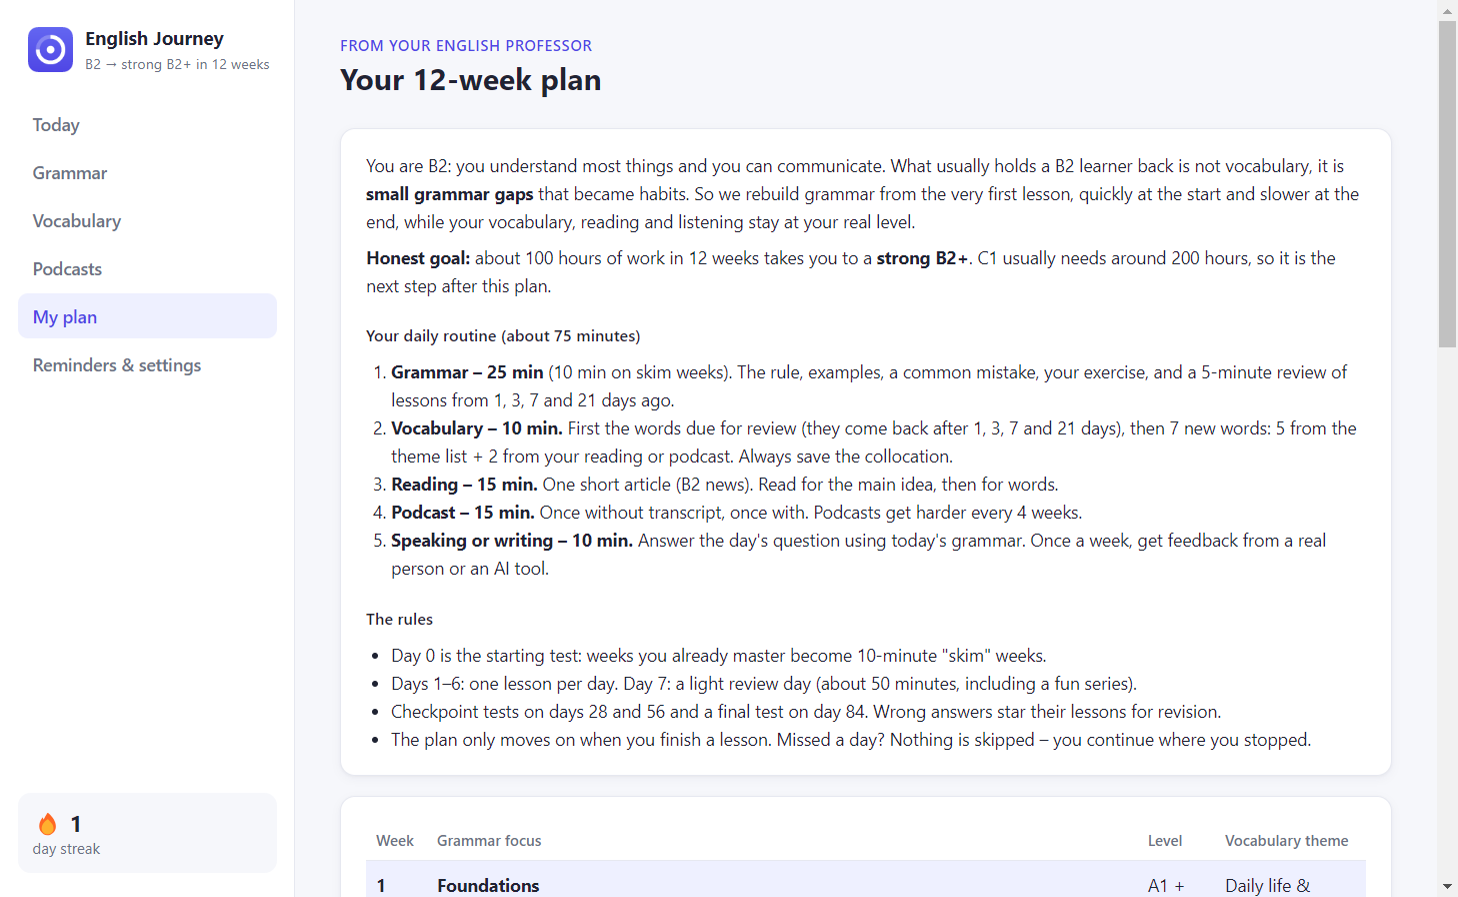
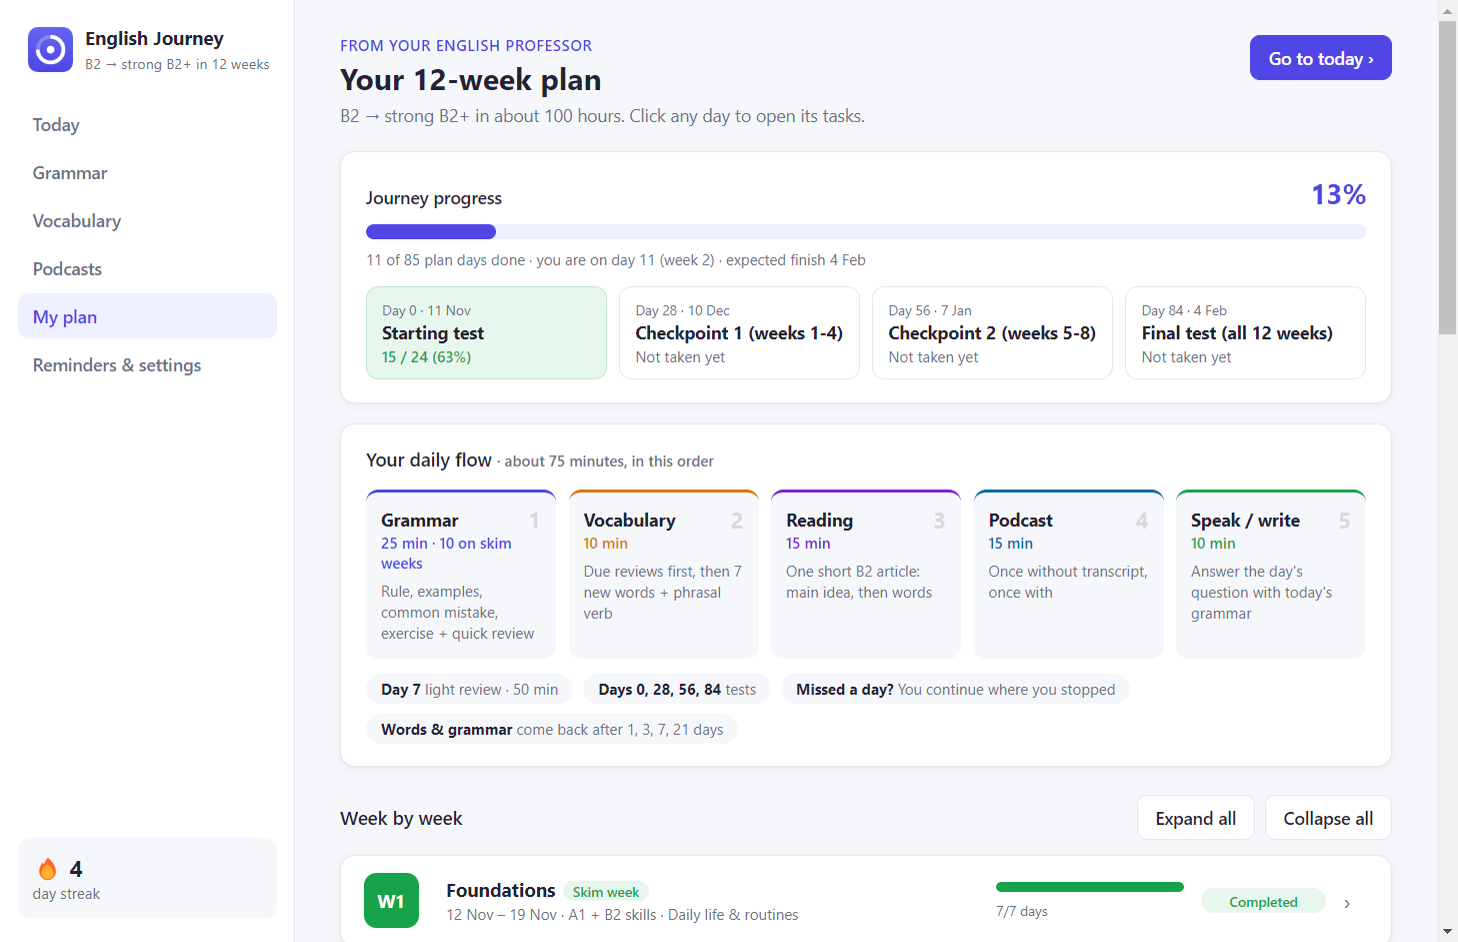
feat: week-by-week plan page linked to Today
My plan now shows journey progress, the 4 test milestones, the
daily flow, and an expandable card per week with its 7 days, status
and minutes. Clicking a day opens it on Today; Today gets a
'This week' strip that links back to the plan.

diff --git a/src/app.js b/src/app.js
@@ -196,6 +196,7 @@ function renderToday() {
     dots += `<div class="dot"><i><b class="${pct === 100 ? 'full' : ''}" style="height:${pct}%"></b></i>${parse(d).toLocaleDateString('en-GB', { weekday: 'short' })}</div>`;
   }
   $('weekDots').innerHTML = dots;
+  renderWeekStrip();
   $('tipText').textContent = TIPS[Math.abs(info.n) % TIPS.length];
 }
 
@@ -597,15 +598,147 @@ $('podHistory').addEventListener('click', (e) => {
   save(); renderPodcasts();
 });
 
-// ---------- PLAN ----------
-function renderPlan() {
-  const todayP = planPos(todayIso());
-  const cur = todayP >= 1 ? Math.floor((Math.min(todayP, TOTAL_DAYS) - 1) / 7) : -1;
-  $('planRows').innerHTML = PLAN.map((w, i) => `
-    <tr class="${i === cur ? 'current' : ''}"><td><strong>${i + 1}</strong><br><span class="muted small">${short(dateOfPos(i * 7 + 1))}</span></td>
-    <td><strong>${esc(w.title)}</strong><br><span class="muted small">${w.lessons.map(esc).join(' · ')}</span></td>
-    <td>${esc(w.level)}</td><td>${esc(w.theme)}</td></tr>`).join('');
+// ---------- PLAN (week by week, linked to Today) ----------
+const openWeeks = new Set();
+let planOpened = false;
+
+function posStatus(pos) {
+  const t = planPos(todayIso());
+  if (pos in schedule().doneAt) return 'done';
+  if (pos === t) return 'today';
+  return 'upcoming';
 }
+
+// Week index (0-11) the learner is in now; the starting test counts as week 1.
+function currentWeek() {
+  const t = planPos(todayIso());
+  return t < 1 ? 0 : Math.floor((Math.min(t, TOTAL_DAYS) - 1) / 7);
+}
+
+const KIND_TAG = { lesson: ['Grammar', 'Lesson'], review: ['Fun', 'Review'], test: ['Test', 'Test'] };
+const dayLabel = (d) => parse(d).toLocaleDateString('en-GB', { weekday: 'short', day: 'numeric', month: 'short' });
+
+function openPlanDay(pos) {
+  viewDate = dateOfPos(pos);
+  showView('today');
+}
+
+function dayRow(pos) {
+  const d = decorate(tasksForDay(pos));
+  const st = posStatus(pos);
+  const [cls, label] = KIND_TAG[d.kind];
+  const lvl = d.kind === 'lesson' ? weekLevel(d.weekIdx) : '';
+  const badge = lvl ? `<span class="badge ${lvl}">${lvl === 'skim' ? 'Skim' : 'Focus'}</span>` : '';
+  const testRes = d.kind === 'test' && state.tests[d.testId] ? `<span class="muted small"> · ${state.tests[d.testId].score}/${state.tests[d.testId].total}</span>` : '';
+  const mins = d.tasks.reduce((a, t) => a + t.min, 0);
+  return `<li class="pw-day ${st}" data-pos="${pos}" title="Open day ${pos} on the Today page">
+    <span class="pw-dot">${st === 'done' ? '✓' : ''}</span>
+    <span class="pw-dn"><strong>Day ${pos}</strong><small>${dayLabel(dateOfPos(pos))}</small></span>
+    <span class="tag ${cls}">${label}</span>
+    <span class="pw-lesson">${esc(d.title)}${badge}${testRes}</span>
+    <span class="pw-min">${mins} min</span>
+    <span class="pw-open">${st === 'today' ? 'Today ›' : 'Open ›'}</span>
+  </li>`;
+}
+
+function renderPlan() {
+  const s = schedule();
+  const todayP = Math.max(planPos(todayIso()), 0);
+  const cur = currentWeek();
+  if (!planOpened) { openWeeks.add(cur); planOpened = true; }
+
+  // overview
+  const doneCount = Object.keys(s.doneAt).filter((p) => Number(p) <= TOTAL_DAYS).length;
+  const pct = Math.round((doneCount / (TOTAL_DAYS + 1)) * 100);
+  $('planPct').textContent = `${pct}%`;
+  $('planFill').style.width = `${pct}%`;
+  $('planText').textContent = `${doneCount} of ${TOTAL_DAYS + 1} plan days done · you are on day ${Math.min(todayP, TOTAL_DAYS)} (week ${cur + 1}) · expected finish ${short(dateOfPos(TOTAL_DAYS))}`;
+  const MS = [[0, 'diag'], [28, 'cp1'], [56, 'cp2'], [84, 'final']];
+  $('planMilestones').innerHTML = MS.map(([pos, id]) => {
+    const r = state.tests[id];
+    const st = posStatus(pos);
+    return `<button class="milestone ${st}" data-pos="${pos}">
+      <span class="ms-day">Day ${pos} · ${short(dateOfPos(pos))}</span>
+      <strong>${esc(TESTS[id].name)}</strong>
+      <span class="ms-res">${r ? `${r.score} / ${r.total} (${Math.round((r.score / r.total) * 100)}%)` : st === 'today' ? 'Today' : 'Not taken yet'}</span>
+    </button>`;
+  }).join('');
+
+  // weeks
+  $('planWeeks').innerHTML = PLAN.map((w, wi) => {
+    const positions = Array.from({ length: 7 }, (_, i) => wi * 7 + i + 1);
+    const done = positions.filter((p) => p in s.doneAt).length;
+    const status = done === 7 ? 'completed' : wi === cur ? 'current' : done ? 'current' : 'upcoming';
+    const statusLabel = { completed: 'Completed', current: 'In progress', upcoming: 'Upcoming' }[status];
+    const lvl = weekLevel(wi);
+    const badge = lvl ? `<span class="badge ${lvl}">${lvl === 'skim' ? 'Skim week' : 'Focus week'}</span>` : '';
+    const first = dateOfPos(positions[0]);
+    const last = dateOfPos(positions[6]);
+    const pv = PHRASAL[wi].map((x) => x[0]).join(', ');
+    const pods = [...new Set(PODCAST_BY_PHASE[Math.min(2, Math.floor(wi / 4))].map((i) => PODCASTS[i].name))].join(', ');
+    const open = openWeeks.has(wi);
+    return `<div class="card plan-week ${status} ${open ? 'open' : ''}">
+      <button class="pw-head" data-week="${wi}" aria-expanded="${open}">
+        <span class="pw-num">W${wi + 1}</span>
+        <span class="pw-title"><strong>${esc(w.title)}</strong>${badge}<small>${short(first)} – ${short(last)} · ${esc(w.level)} · ${esc(w.theme)}</small></span>
+        <span class="pw-progress"><span class="bar thin"><span class="bar-fill ${done === 7 ? 'full' : ''}" style="width:${(done / 7) * 100}%"></span></span><small>${done}/7 days</small></span>
+        <span class="pill ${status}">${statusLabel}</span>
+        <span class="chev">›</span>
+      </button>
+      <div class="pw-body">
+        <div class="pw-meta">
+          <span><b>Vocabulary</b> ${esc(w.theme)} · 7 new words a day</span>
+          <span><b>Phrasal verbs</b> ${esc(pv)}</span>
+          <span><b>Listening</b> ${esc(pods)}</span>
+        </div>
+        <ol class="pw-days">${positions.map(dayRow).join('')}</ol>
+      </div>
+    </div>`;
+  }).join('');
+}
+
+$('planWeeks').addEventListener('click', (e) => {
+  const day = e.target.closest('.pw-day');
+  if (day) { openPlanDay(Number(day.dataset.pos)); return; }
+  const head = e.target.closest('.pw-head');
+  if (!head) return;
+  const w = Number(head.dataset.week);
+  if (openWeeks.has(w)) openWeeks.delete(w); else openWeeks.add(w);
+  renderPlan();
+});
+$('planMilestones').addEventListener('click', (e) => {
+  const m = e.target.closest('.milestone');
+  if (m) openPlanDay(Number(m.dataset.pos));
+});
+$('planExpand').onclick = () => { PLAN.forEach((_, i) => openWeeks.add(i)); renderPlan(); };
+$('planCollapse').onclick = () => { openWeeks.clear(); renderPlan(); };
+$('planToToday').onclick = () => { viewDate = todayIso(); showView('today'); };
+
+// "This week" strip on the Today page
+function renderWeekStrip() {
+  const viewP = planPos(viewDate);
+  const wi = viewP < 1 ? 0 : Math.floor((normPos(viewP) - 1) / 7);
+  $('wkTitle').textContent = `Week ${wi + 1}: ${PLAN[wi].title}`;
+  $('wkStrip').innerHTML = Array.from({ length: 7 }, (_, i) => wi * 7 + i + 1).map((pos) => {
+    const d = tasksForDay(pos);
+    const st = posStatus(pos);
+    const viewing = pos === normPos(viewP) ? 'viewing' : '';
+    const icon = st === 'done' ? '✓' : d.kind === 'test' ? 'T' : d.kind === 'review' ? 'R' : String(pos - wi * 7);
+    return `<button class="wk-tile ${st} ${viewing}" data-pos="${pos}" title="Day ${pos}: ${esc(d.title)}"><b>${icon}</b><small>D${pos}</small></button>`;
+  }).join('');
+}
+$('wkStrip').addEventListener('click', (e) => {
+  const t = e.target.closest('.wk-tile');
+  if (!t) return;
+  viewDate = dateOfPos(Number(t.dataset.pos));
+  renderToday();
+});
+$('wkOpenPlan').onclick = () => {
+  const viewP = planPos(viewDate);
+  openWeeks.add(viewP < 1 ? 0 : Math.floor((normPos(viewP) - 1) / 7));
+  planOpened = true;
+  showView('plan');
+};
 
 // ---------- SETTINGS & REMINDERS ----------
 function renderSettings() {

diff --git a/src/styles.css b/src/styles.css
@@ -259,8 +259,90 @@ textarea { resize: vertical; }
 .test-card { border: 1px solid var(--line); border-radius: 10px; padding: 10px 12px; display: flex; flex-direction: column; gap: 4px; }
 .test-card > span { font-size: 12px; color: var(--muted); }
 
+/* ---------- My plan page ---------- */
+.milestones { display: grid; grid-template-columns: repeat(4, 1fr); gap: 10px; margin-top: 14px; }
+.milestone { text-align: left; border: 1px solid var(--line); background: var(--card); border-radius: 10px; padding: 10px 12px; cursor: pointer; display: flex; flex-direction: column; gap: 2px; }
+.milestone:hover { border-color: var(--accent); }
+.milestone .ms-day { font-size: 11px; color: var(--muted); }
+.milestone .ms-res { font-size: 12px; color: var(--muted); }
+.milestone.done { background: var(--green-soft); border-color: #bfe6cc; }
+.milestone.done .ms-res { color: var(--green); font-weight: 600; }
+.milestone.today { border-color: var(--accent); box-shadow: 0 0 0 3px var(--accent-soft); }
+
+.flow { display: grid; grid-template-columns: repeat(5, 1fr); gap: 10px; }
+.flow-step { position: relative; border-radius: 10px; padding: 12px; background: var(--bg); border-top: 3px solid var(--accent); }
+.flow-step b { position: absolute; top: 10px; right: 12px; font-size: 18px; color: rgba(0, 0, 0, .12); }
+.flow-step strong { display: block; }
+.flow-step span { display: block; font-size: 12px; font-weight: 600; color: var(--accent); margin: 2px 0 6px; }
+.flow-step p { margin: 0; font-size: 12px; color: var(--muted); line-height: 1.4; }
+.flow-step.Vocabulary { border-top-color: var(--amber); } .flow-step.Vocabulary span { color: var(--amber); }
+.flow-step.Reading { border-top-color: #7e22ce; } .flow-step.Reading span { color: #7e22ce; }
+.flow-step.Podcast { border-top-color: #0369a1; } .flow-step.Podcast span { color: #0369a1; }
+.flow-step.Speaking { border-top-color: var(--green); } .flow-step.Speaking span { color: var(--green); }
+.flow-rules { display: flex; flex-wrap: wrap; gap: 8px; margin-top: 12px; }
+.flow-rules span { font-size: 12px; background: var(--bg); border-radius: 99px; padding: 4px 12px; color: var(--muted); }
+.flow-rules b { color: var(--text); }
+
+.plan-toolbar { margin: 22px 0 10px; }
+.plan-toolbar h2 { margin: 0; }
+.plan-week { padding: 0; overflow: hidden; margin-bottom: 10px; }
+.plan-week.current { border-color: #c7cbff; }
+.pw-head { width: 100%; display: grid; grid-template-columns: 52px 1fr 150px 100px 20px; align-items: center; gap: 14px; padding: 14px 18px; background: none; border: 0; cursor: pointer; text-align: left; }
+.pw-head:hover { background: #fafbff; }
+.pw-num { width: 44px; height: 44px; border-radius: 10px; display: grid; place-items: center; font-weight: 700; background: var(--bg); color: var(--muted); }
+.plan-week.current .pw-num { background: var(--accent); color: #fff; }
+.plan-week.completed .pw-num { background: var(--green); color: #fff; }
+.pw-title strong { font-size: 15px; }
+.pw-title small { display: block; color: var(--muted); font-size: 12px; margin-top: 2px; }
+.pw-progress .bar, .pw-progress .bar-fill { display: block; }
+.pw-progress .bar { margin-bottom: 4px; }
+.pw-progress small { color: var(--muted); font-size: 11px; }
+.pill { font-size: 11px; font-weight: 600; padding: 3px 10px; border-radius: 99px; text-align: center; background: var(--bg); color: var(--muted); }
+.pill.current { background: var(--accent-soft); color: var(--accent); }
+.pill.completed { background: var(--green-soft); color: var(--green); }
+.chev { color: var(--muted); font-size: 18px; transition: transform .2s; }
+.plan-week.open .chev { transform: rotate(90deg); }
+.pw-body { display: none; border-top: 1px solid var(--line); padding: 12px 18px 14px; }
+.plan-week.open .pw-body { display: block; }
+.pw-meta { display: flex; flex-wrap: wrap; gap: 6px 18px; font-size: 12px; color: var(--muted); margin-bottom: 8px; }
+.pw-meta b { color: var(--text); margin-right: 4px; }
+.pw-days { list-style: none; margin: 0; padding: 0; }
+.pw-day { display: grid; grid-template-columns: 24px 120px 70px 1fr 60px 64px; align-items: center; gap: 10px; padding: 9px 8px; border-radius: 8px; cursor: pointer; }
+.pw-day:hover { background: var(--bg); }
+.pw-day + .pw-day { border-top: 1px solid var(--line); }
+.pw-dot { width: 20px; height: 20px; border-radius: 50%; border: 2px solid #c9cddc; display: grid; place-items: center; font-size: 11px; color: #fff; }
+.pw-day.done .pw-dot { background: var(--green); border-color: var(--green); }
+.pw-day.today .pw-dot { border-color: var(--accent); background: var(--accent); box-shadow: 0 0 0 3px var(--accent-soft); }
+.pw-day.today { background: var(--accent-soft); }
+.pw-dn small { display: block; font-size: 11px; color: var(--muted); }
+.pw-day .tag { text-align: center; }
+.pw-lesson { line-height: 1.35; }
+.pw-day.done .pw-lesson { color: var(--muted); }
+.pw-min { font-size: 12px; color: var(--muted); text-align: right; }
+.pw-open { font-size: 12px; color: var(--muted); text-align: right; }
+.pw-day:hover .pw-open, .pw-day.today .pw-open { color: var(--accent); font-weight: 600; }
+
+/* ---------- "This week" strip on Today ---------- */
+.wk-head { margin-top: 14px; }
+.wk-head h3 { margin: 0; }
+.link-btn { border: 0; background: none; color: var(--accent); cursor: pointer; font-size: 12px; font-weight: 600; padding: 0; }
+.link-btn:hover { text-decoration: underline; }
+.wk-strip { display: grid; grid-template-columns: repeat(7, 1fr); gap: 6px; margin-top: 8px; }
+.wk-tile { border: 1px solid var(--line); background: var(--card); border-radius: 8px; padding: 6px 0 4px; cursor: pointer; display: flex; flex-direction: column; align-items: center; gap: 1px; }
+.wk-tile b { font-size: 13px; }
+.wk-tile small { font-size: 10px; color: var(--muted); }
+.wk-tile:hover { border-color: var(--accent); }
+.wk-tile.done { background: var(--green-soft); border-color: #bfe6cc; color: var(--green); }
+.wk-tile.today { background: var(--accent); border-color: var(--accent); color: #fff; }
+.wk-tile.today small { color: #e0e3ff; }
+.wk-tile.viewing:not(.today) { box-shadow: 0 0 0 2px var(--accent); }
+
 @media (max-width: 1100px) {
   .test-cards { grid-template-columns: repeat(2, 1fr); }
+  .milestones { grid-template-columns: repeat(2, 1fr); }
+  .flow { grid-template-columns: repeat(3, 1fr); }
+  .pw-head { grid-template-columns: 52px 1fr 100px 20px; }
+  .pw-progress { display: none; }
   .grid-2 { grid-template-columns: 1fr; }
   .word-form { grid-template-columns: 1fr 1fr; }
 }

diff --git a/src/index.html b/src/index.html
@@ -70,6 +70,11 @@
             <h2>Journey</h2>
             <div class="bar thin"><div class="bar-fill" id="journeyFill"></div></div>
             <p class="muted small" id="journeyText"></p>
+            <div class="row between wk-head">
+              <h3 id="wkTitle">This week</h3>
+              <button class="link-btn" id="wkOpenPlan">Open in plan ›</button>
+            </div>
+            <div class="wk-strip" id="wkStrip"></div>
             <h3>Last 7 days</h3>
             <div class="week-dots" id="weekDots"></div>
           </div>
@@ -181,33 +186,46 @@
         <div>
           <p class="eyebrow">From your English professor</p>
           <h1>Your 12-week plan</h1>
+          <p class="muted">B2 → strong B2+ in about 100 hours. Click any day to open its tasks.</p>
         </div>
+        <button class="primary" id="planToToday">Go to today ›</button>
       </header>
-      <div class="card prose">
-        <p>You are B2: you understand most things and you can communicate. What usually holds a B2 learner back is not vocabulary, it is <strong>small grammar gaps</strong> that became habits. So we rebuild grammar from the very first lesson, quickly at the start and slower at the end, while your vocabulary, reading and listening stay at your real level.</p>
-        <p><strong>Honest goal:</strong> about 100 hours of work in 12 weeks takes you to a <strong>strong B2+</strong>. C1 usually needs around 200 hours, so it is the next step after this plan.</p>
-        <h3>Your daily routine (about 75 minutes)</h3>
-        <ol>
-          <li><strong>Grammar – 25 min</strong> (10 min on skim weeks). The rule, examples, a common mistake, your exercise, and a 5-minute review of lessons from 1, 3, 7 and 21 days ago.</li>
-          <li><strong>Vocabulary – 10 min.</strong> First the words due for review (they come back after 1, 3, 7 and 21 days), then 7 new words: 5 from the theme list + 2 from your reading or podcast. Always save the collocation.</li>
-          <li><strong>Reading – 15 min.</strong> One short article (B2 news). Read for the main idea, then for words.</li>
-          <li><strong>Podcast – 15 min.</strong> Once without transcript, once with. Podcasts get harder every 4 weeks.</li>
-          <li><strong>Speaking or writing – 10 min.</strong> Answer the day's question using today's grammar. Once a week, get feedback from a real person or an AI tool.</li>
-        </ol>
-        <h3>The rules</h3>
-        <ul>
-          <li>Day 0 is the starting test: weeks you already master become 10-minute "skim" weeks.</li>
-          <li>Days 1–6: one lesson per day. Day 7: a light review day (about 50 minutes, including a fun series).</li>
-          <li>Checkpoint tests on days 28 and 56 and a final test on day 84. Wrong answers star their lessons for revision.</li>
-          <li>The plan only moves on when you finish a lesson. Missed a day? Nothing is skipped – you continue where you stopped.</li>
-        </ul>
-      </div>
+
+      <!-- Overview: progress + milestones -->
       <div class="card">
-        <table class="table plan-table">
-          <thead><tr><th>Week</th><th>Grammar focus</th><th>Level</th><th>Vocabulary theme</th></tr></thead>
-          <tbody id="planRows"></tbody>
-        </table>
+        <div class="progress-top"><span>Journey progress</span><strong id="planPct">0%</strong></div>
+        <div class="bar"><div class="bar-fill" id="planFill"></div></div>
+        <p class="muted small" id="planText"></p>
+        <div class="milestones" id="planMilestones"></div>
       </div>
+
+      <!-- Daily flow -->
+      <div class="card">
+        <h2>Your daily flow <span class="muted small">· about 75 minutes, in this order</span></h2>
+        <div class="flow">
+          <div class="flow-step Grammar"><b>1</b><strong>Grammar</strong><span>25 min · 10 on skim weeks</span><p>Rule, examples, common mistake, exercise + quick review</p></div>
+          <div class="flow-step Vocabulary"><b>2</b><strong>Vocabulary</strong><span>10 min</span><p>Due reviews first, then 7 new words + phrasal verb</p></div>
+          <div class="flow-step Reading"><b>3</b><strong>Reading</strong><span>15 min</span><p>One short B2 article: main idea, then words</p></div>
+          <div class="flow-step Podcast"><b>4</b><strong>Podcast</strong><span>15 min</span><p>Once without transcript, once with</p></div>
+          <div class="flow-step Speaking"><b>5</b><strong>Speak / write</strong><span>10 min</span><p>Answer the day's question with today's grammar</p></div>
+        </div>
+        <div class="flow-rules">
+          <span><b>Day 7</b> light review · 50 min</span>
+          <span><b>Days 0, 28, 56, 84</b> tests</span>
+          <span><b>Missed a day?</b> You continue where you stopped</span>
+          <span><b>Words & grammar</b> come back after 1, 3, 7, 21 days</span>
+        </div>
+      </div>
+
+      <!-- Weeks -->
+      <div class="row between plan-toolbar">
+        <h2>Week by week</h2>
+        <div class="row">
+          <button class="ghost" id="planExpand">Expand all</button>
+          <button class="ghost" id="planCollapse">Collapse all</button>
+        </div>
+      </div>
+      <div id="planWeeks"></div>
     </section>
 
     <!-- SETTINGS -->

diff --git a/REPORT.md b/REPORT.md
@@ -117,7 +117,7 @@ Still not covered by the app (advice in the plan instead): real conversation pra
 
 ![Today](docs/screenshots/today.png)
 
-**Today** — the day's planned tasks (5 on a lesson day) plus any tasks you add. Ticking a task moves the progress bar; at 100% the bar turns green. The header shows the plan day, the week and the lesson; on skim weeks the grammar task becomes a 10-minute "Skim" task. The side panel shows your streak, words saved, podcast minutes, journey progress (day X of 84), the last 7 days and a teacher tip.
+**Today** — the day's planned tasks (5 on a lesson day) plus any tasks you add. Ticking a task moves the progress bar; at 100% the bar turns green. The header shows the plan day, the week and the lesson; on skim weeks the grammar task becomes a 10-minute "Skim" task. The side panel shows your streak, words saved, podcast minutes, journey progress (day X of 84), a *This week* strip linked to the plan, the last 7 days and a teacher tip.
 
 **Task details** — clicking a task (anywhere except its checkbox) opens a window with that day's full content. You can move between the day's tasks with *Previous / Next* (or the ← → keys), mark the task done, and close with Esc.
 
@@ -152,7 +152,17 @@ Still not covered by the app (advice in the plan instead): real conversation pra
 
 ![Plan](docs/screenshots/plan.png)
 
-**My plan** — the honest goal, the daily routine, the rules, and the 12 weeks with the current week highlighted.
+**My plan** — the whole programme, organised and linked to the Today page:
+
+- **Journey progress** — how many of the 85 plan days are done, the day you are on, and the expected finish date (it moves if you miss days).
+- **Milestones** — the 4 tests (days 0, 28, 56, 84) with their dates and your scores. Click one to open that day.
+- **Your daily flow** — the 5 daily steps in order with their minutes, plus the key rules (light day 7, test days, missed days, spaced review).
+- **Week by week** — one card per week with its dates, level, vocabulary theme, a progress bar (x/7 days) and a status (*Completed*, *In progress*, *Upcoming*). Skim / Focus weeks from the starting test are labelled. The current week opens automatically; *Expand all* / *Collapse all* show or hide the others.
+- Inside a week: its phrasal verbs and podcasts, and its 7 days, each with the date, type (*Lesson*, *Review*, *Test*), lesson title, total minutes and status (✓ done, ● today). **Clicking a day opens it on the Today page** with all its tasks.
+
+![Plan: week by week](docs/screenshots/plan-weeks.png)
+
+The **Today** page links back: its *This week* strip shows the 7 days of the current week (✓ done, today highlighted, R = review, T = test). Clicking a tile shows that day's tasks, and *Open in plan ›* opens the week on the My plan page.
 
 ![Settings](docs/screenshots/settings.png)
 

diff --git a/README.md b/README.md
@@ -13,6 +13,7 @@ A simple, clean desktop app to track an English learning journey: **grammar, voc
 | **Today** | The day's tasks (grammar, vocabulary, reading, podcast, speaking/writing) + your own tasks. Progress bar fills as you tick tasks. Streak, journey progress, last 7 days, teacher tip. |
 | **Task details** | Click any task to open its full lesson: grammar rule, examples, common mistake, exercise and a quick review of older lessons; words to choose from and the phrasal verb of the day; reading and podcast sources with method; the speaking/writing question. |
 | **Tests** | Starting test, two checkpoints and a final test, taken inside the app. The starting test turns known weeks into 10-minute "skim" weeks; wrong checkpoint answers star their lessons. |
+| **My plan** | Journey progress, the 4 test milestones, the daily flow, and a card for each week with its 7 days and their status. Click any day to open its tasks on Today; Today's *This week* strip links back. |
 | **Grammar** | Test results and 72 lessons from A1 to C1 with Done / Today status, Skim / Focus badges and stars for revision. |
 | **Vocabulary** | Word bank with spaced repetition (1, 3, 7, 21 days): review due words with *I knew it* / *I didn't know*. Search, filters, next review date. Saving 7 new words with no reviews left ticks the task. |
 | **Podcasts** | Log episodes (minutes + expressions you heard). Recommended podcasts with links. Logging an episode ticks the podcast task. |
